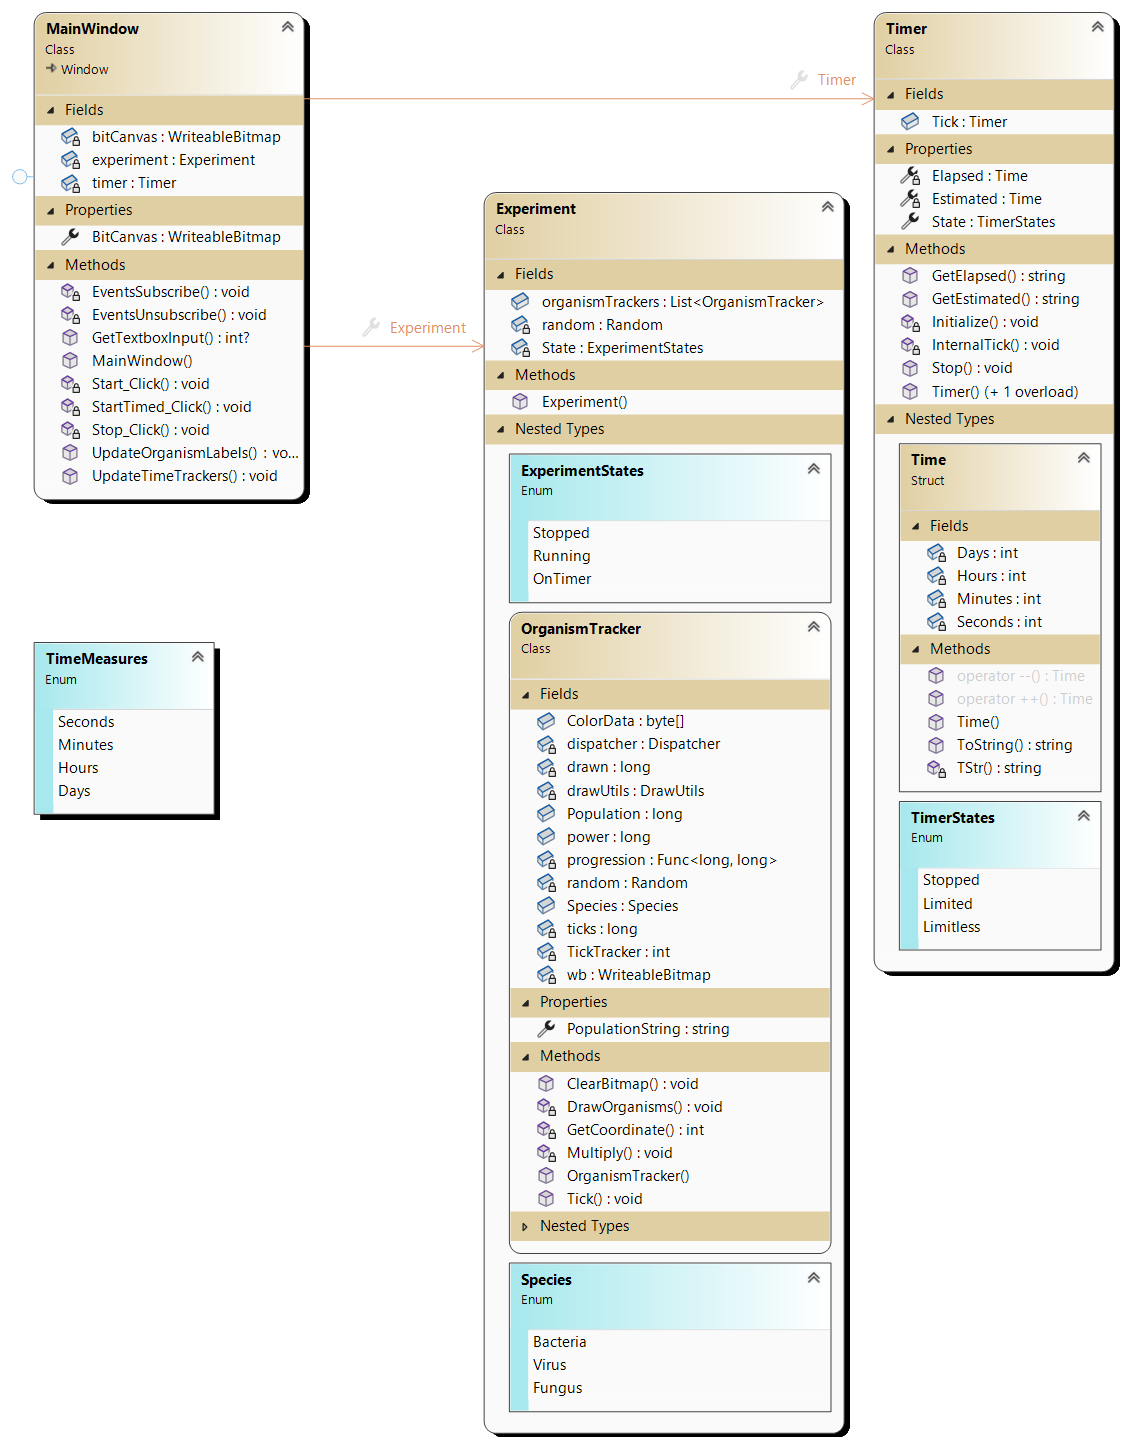
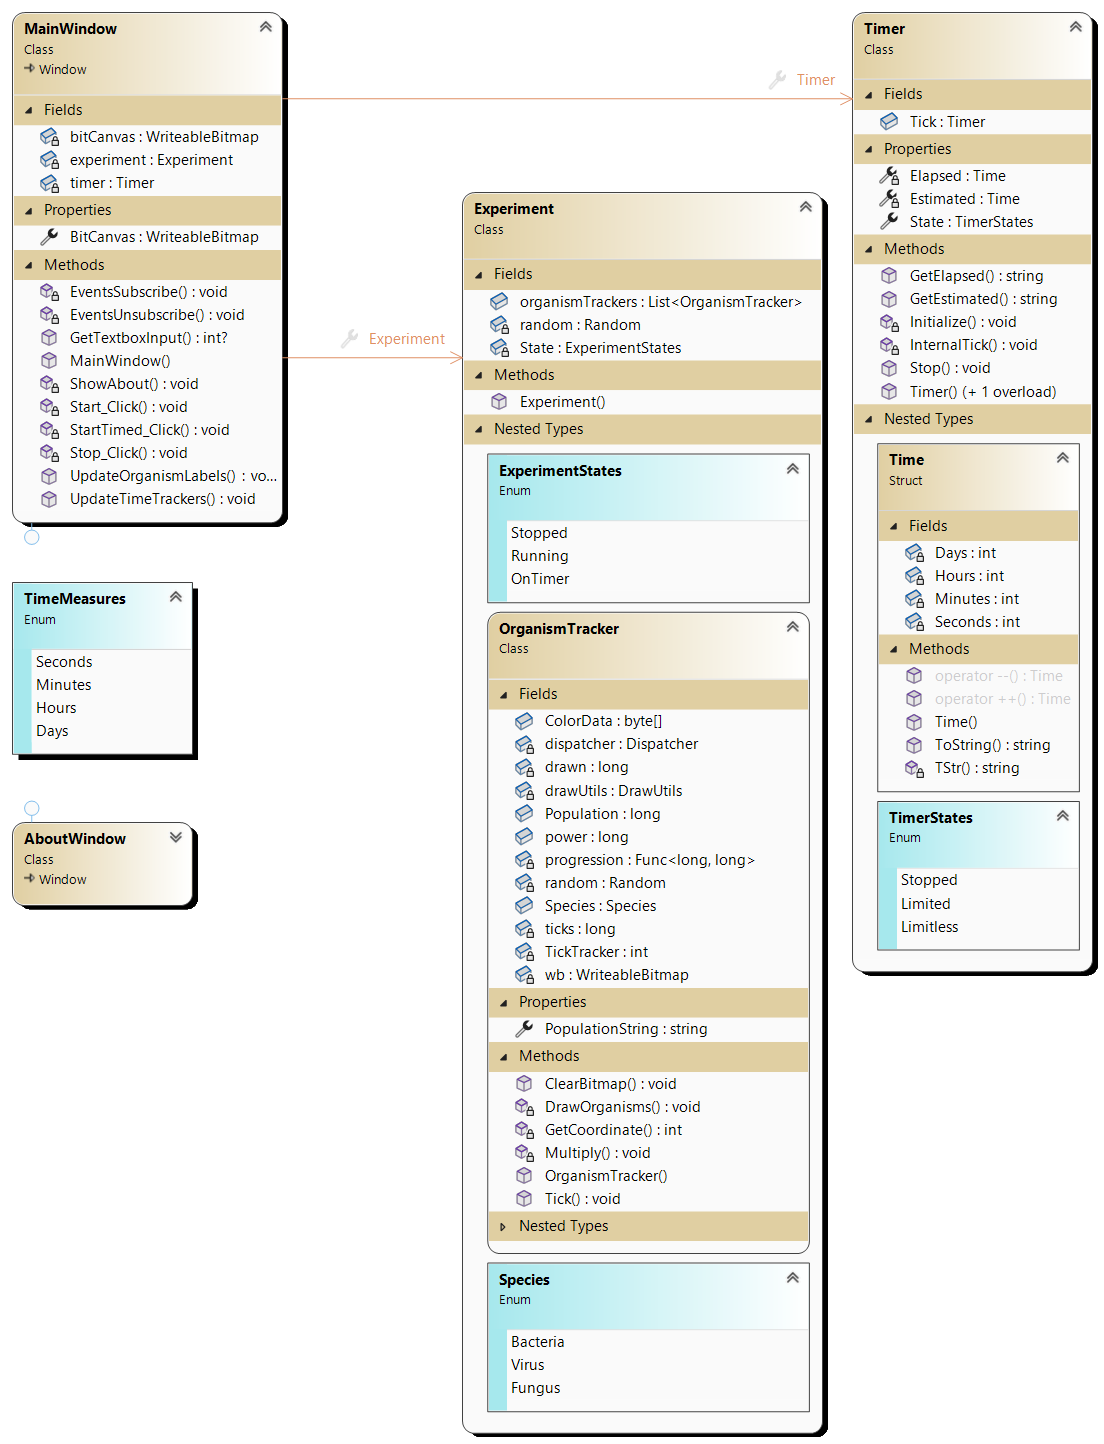
Added "About" window

diff --git a/OOP-Prog/MainWindow.xaml b/OOP-Prog/MainWindow.xaml
@@ -15,12 +15,19 @@
         </Grid.ColumnDefinitions>
         <Grid.RowDefinitions>
             <RowDefinition Height="10"></RowDefinition>
+            <RowDefinition Height="Auto"></RowDefinition>
             <RowDefinition Height="*"></RowDefinition>
             <RowDefinition Height="Auto"></RowDefinition>
             <RowDefinition Height="10"></RowDefinition>
         </Grid.RowDefinitions>
 
-        <StackPanel VerticalAlignment="Center" HorizontalAlignment="Center" Grid.Row="2" Grid.Column="1" Grid.ColumnSpan="2">
+        <Menu Grid.RowSpan="2" Grid.ColumnSpan="4">
+            <MenuItem Click="ShowAbout"  Header="About">
+                
+            </MenuItem>
+        </Menu>
+        
+        <StackPanel VerticalAlignment="Center" HorizontalAlignment="Center" Grid.Row="3" Grid.Column="1" Grid.ColumnSpan="2">
             <Label HorizontalAlignment="Center" FontStyle="Italic">Experiment control panel</Label>
             <DockPanel>
                 <GroupBox Header="Main controls">
@@ -47,7 +54,7 @@
             </DockPanel>
         </StackPanel>
 
-        <StackPanel VerticalAlignment="Stretch" Grid.Row="1" Grid.Column="1">
+        <StackPanel VerticalAlignment="Stretch" Grid.Row="2" Grid.Column="1">
             <GroupBox VerticalAlignment="Stretch" Header="Time stats">
                 <StackPanel VerticalAlignment="Stretch" HorizontalAlignment="Center">
                     <Label HorizontalAlignment="Center">Elapsed:</Label>
@@ -57,8 +64,8 @@
                     <TextBlock HorizontalAlignment="Center" Name="EstimatedLabel" Foreground="Firebrick" FontStyle="Oblique">00:00:00:00</TextBlock>
                 </StackPanel>
             </GroupBox>
-            <GroupBox VerticalAlignment="Stretch" Header="Organisms" Grid.Row="1" Grid.Column="1">
-                <StackPanel VerticalAlignment="Stretch" Grid.Row="1" Grid.Column="1">
+            <GroupBox VerticalAlignment="Stretch" Header="Organisms" Grid.Row="2" Grid.Column="1">
+                <StackPanel VerticalAlignment="Stretch" Grid.Row="2" Grid.Column="1">
                     <DockPanel>
                         <Label>Viruses:</Label>
                         <TextBlock VerticalAlignment="Center" Name="LabelVirusCount" Foreground="Red">0</TextBlock>
@@ -75,7 +82,7 @@
             </GroupBox>
         </StackPanel>
 
-        <GroupBox Header="PetriLive™ Cam" Grid.Row="1" Grid.Column="2">
+        <GroupBox Header="PetriLive™ Cam" Grid.Row="2" Grid.Column="2">
             <Image Name="DishPic"></Image>
         </GroupBox>
     </Grid>

diff --git a/OOP-Prog/AboutWindow.xaml b/OOP-Prog/AboutWindow.xaml
@@ -1,0 +1,49 @@
+<Window x:Class="OOP_Prog.AboutWindow"
+        xmlns="http://schemas.microsoft.com/winfx/2006/xaml/presentation"
+        xmlns:x="http://schemas.microsoft.com/winfx/2006/xaml"
+        xmlns:d="http://schemas.microsoft.com/expression/blend/2008"
+        xmlns:mc="http://schemas.openxmlformats.org/markup-compatibility/2006"
+        xmlns:local="clr-namespace:OOP_Prog"
+        mc:Ignorable="d"
+        Title="About" Height="225" Width="400" ResizeMode="NoResize" ShowInTaskbar="False" Topmost="True" WindowStartupLocation="CenterOwner" Icon="/dishpic.jpg">
+    <Grid>
+        <Grid.RowDefinitions>
+            <RowDefinition Height="10"/>
+            <RowDefinition Height="*"/>
+            <RowDefinition Height="10"/>
+        </Grid.RowDefinitions>
+        <Grid.ColumnDefinitions>
+            <ColumnDefinition Width="10"/>
+            <ColumnDefinition Width="Auto"/>
+            <ColumnDefinition Width="*"/>
+            <ColumnDefinition Width="10"/>
+        </Grid.ColumnDefinitions>
+
+        <StackPanel VerticalAlignment="Bottom" Grid.Row="1" Grid.Column="1">
+            <Image Margin="5" Width="150" Source="/developer.jpg" ></Image>
+            <Label HorizontalAlignment="Center">Made by Klepinin Kirill</Label>
+            <Label HorizontalAlignment="Center">Group 421-3</Label>
+        </StackPanel>
+
+        <GroupBox Grid.Row="1" Grid.Column="2" Header="Info">
+            <StackPanel>
+                <TextBlock TextWrapping="Wrap">
+                    This application simulates microorgnism multiplication.
+                </TextBlock>
+                <TextBlock TextWrapping="Wrap">
+                    Features:
+                </TextBlock>
+                <TextBlock TextWrapping="Wrap">
+                    - Realtime petri dish display!
+                </TextBlock>
+                <TextBlock TextWrapping="Wrap">
+                    - 3 microorganism species to watch!
+                </TextBlock>
+                <TextBlock TextWrapping="Wrap">
+                    - Embedded timer with multiple modes!
+                </TextBlock>
+            </StackPanel>
+        </GroupBox>
+        
+    </Grid>
+</Window>

diff --git a/OOP-Prog/MainWindow.xaml.cs b/OOP-Prog/MainWindow.xaml.cs
@@ -130,14 +130,6 @@ namespace OOP_Prog
             LabelFungiCount.Text = Experiment.organismTrackers[2].PopulationString;
         }
 
-        /*public void TimerExecutioner(object sender, EventArgs e) //Checks if timer ran out, the stops it
-        {
-            if (timer.State == Timer.TimerStates.Stopped)
-            {
-                timer.Stop();
-            }
-        }*/
-
         public int? GetTextboxInput() //Gets the value from the textbox in TimeExp zone and checks it if it is valid
         {
             int input;
@@ -165,7 +157,6 @@ namespace OOP_Prog
             }
             CompositionTarget.Rendering += UpdateTimeTrackers;
             CompositionTarget.Rendering += UpdateOrganismLabels;
-            //CompositionTarget.Rendering += TimerExecutioner;
         }
 
         private void EventsUnsubscribe() //Unsubscribes OrganismTrackers from Timer tick and UI stuff from Rendering tick
@@ -176,7 +167,12 @@ namespace OOP_Prog
             }
             CompositionTarget.Rendering -= UpdateTimeTrackers;
             CompositionTarget.Rendering -= UpdateOrganismLabels;
-            //CompositionTarget.Rendering -= TimerExecutioner;
+        }
+
+        private void ShowAbout(object sender, EventArgs e)
+        {
+            AboutWindow about = new AboutWindow();
+            about.ShowDialog();
         }
     }
 
@@ -410,7 +406,7 @@ namespace OOP_Prog
             public long Population; //Self-explanatory
             private int TickTracker = 0; //Tracks when to multiply
             public byte[] ColorData; //Color used during drawing the organism
-            public long power = 1; //Amount of organisms represented by 1 pixel
+            private long power { get; set; } = 1; //Amount of organisms represented by 1 pixel
             private long drawn = 0; //Amount of already drawn organisms
             private Func<long, long> progression = x => (long)Math.Round(Math.Sqrt(2 * x * 4 * Math.Pow(1.21, 16))); //Determines speed of organism multiplication
             private long ticks = 0; //Tick tracker for correct progression

diff --git a/OOP-Prog/AboutWindow.xaml.cs b/OOP-Prog/AboutWindow.xaml.cs
@@ -1,0 +1,27 @@
+using System;
+using System.Collections.Generic;
+using System.Linq;
+using System.Text;
+using System.Threading.Tasks;
+using System.Windows;
+using System.Windows.Controls;
+using System.Windows.Data;
+using System.Windows.Documents;
+using System.Windows.Input;
+using System.Windows.Media;
+using System.Windows.Media.Imaging;
+using System.Windows.Shapes;
+
+namespace OOP_Prog
+{
+    /// <summary>
+    /// Interaction logic for AboutWindow.xaml
+    /// </summary>
+    public partial class AboutWindow : Window
+    {
+        public AboutWindow()
+        {
+            InitializeComponent();
+        }
+    }
+}
